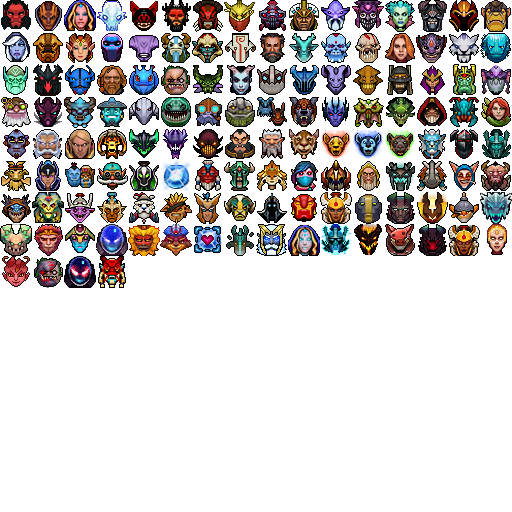
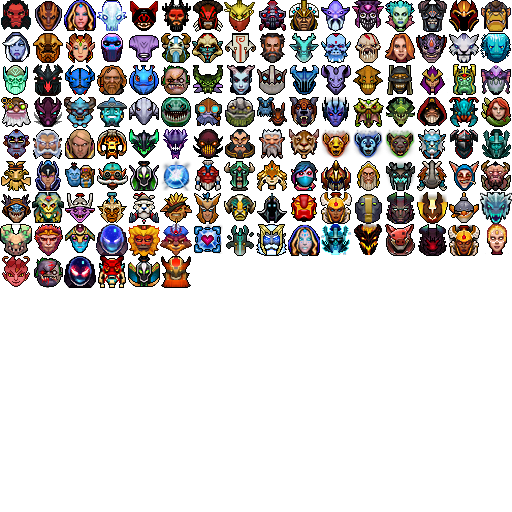
feat(hero): add Mars (#17)
closes #16

diff --git a/demo.html b/demo.html
@@ -546,6 +546,14 @@
             <td><i class="d2mh grimstroke"></i></td>
             <td>grimstroke, npc_dota_hero_grimstroke, hero-121</td>
         </tr>
+        <tr>
+            <td><i class="d2mh rubick_alt1"></i></td>
+            <td>rubick_alt1, npc_dota_hero_rubick_alt1</td>
+        </tr>
+        <tr>
+            <td><i class="d2mh mars"></i></td>
+            <td>mars, npc_dota_hero_mars, hero-129</td>
+        </tr>
         </table>
     </body>
 </html>

diff --git a/assets/stylesheets/dota2minimapheroes.css b/assets/stylesheets/dota2minimapheroes.css
@@ -533,3 +533,11 @@
 .d2mh.grimstroke, .d2mh.npc_dota_hero_grimstroke, .d2mh.hero-121 { 
     background-position: -96px -256px;
 }
+
+.d2mh.rubick_alt1, .d2mh.npc_dota_hero_rubick_alt1 { 
+    background-position: -128px -256px;
+}
+
+.d2mh.mars, .d2mh.npc_dota_hero_mars, .d2mh.hero-129 { 
+    background-position: -160px -256px;
+}
